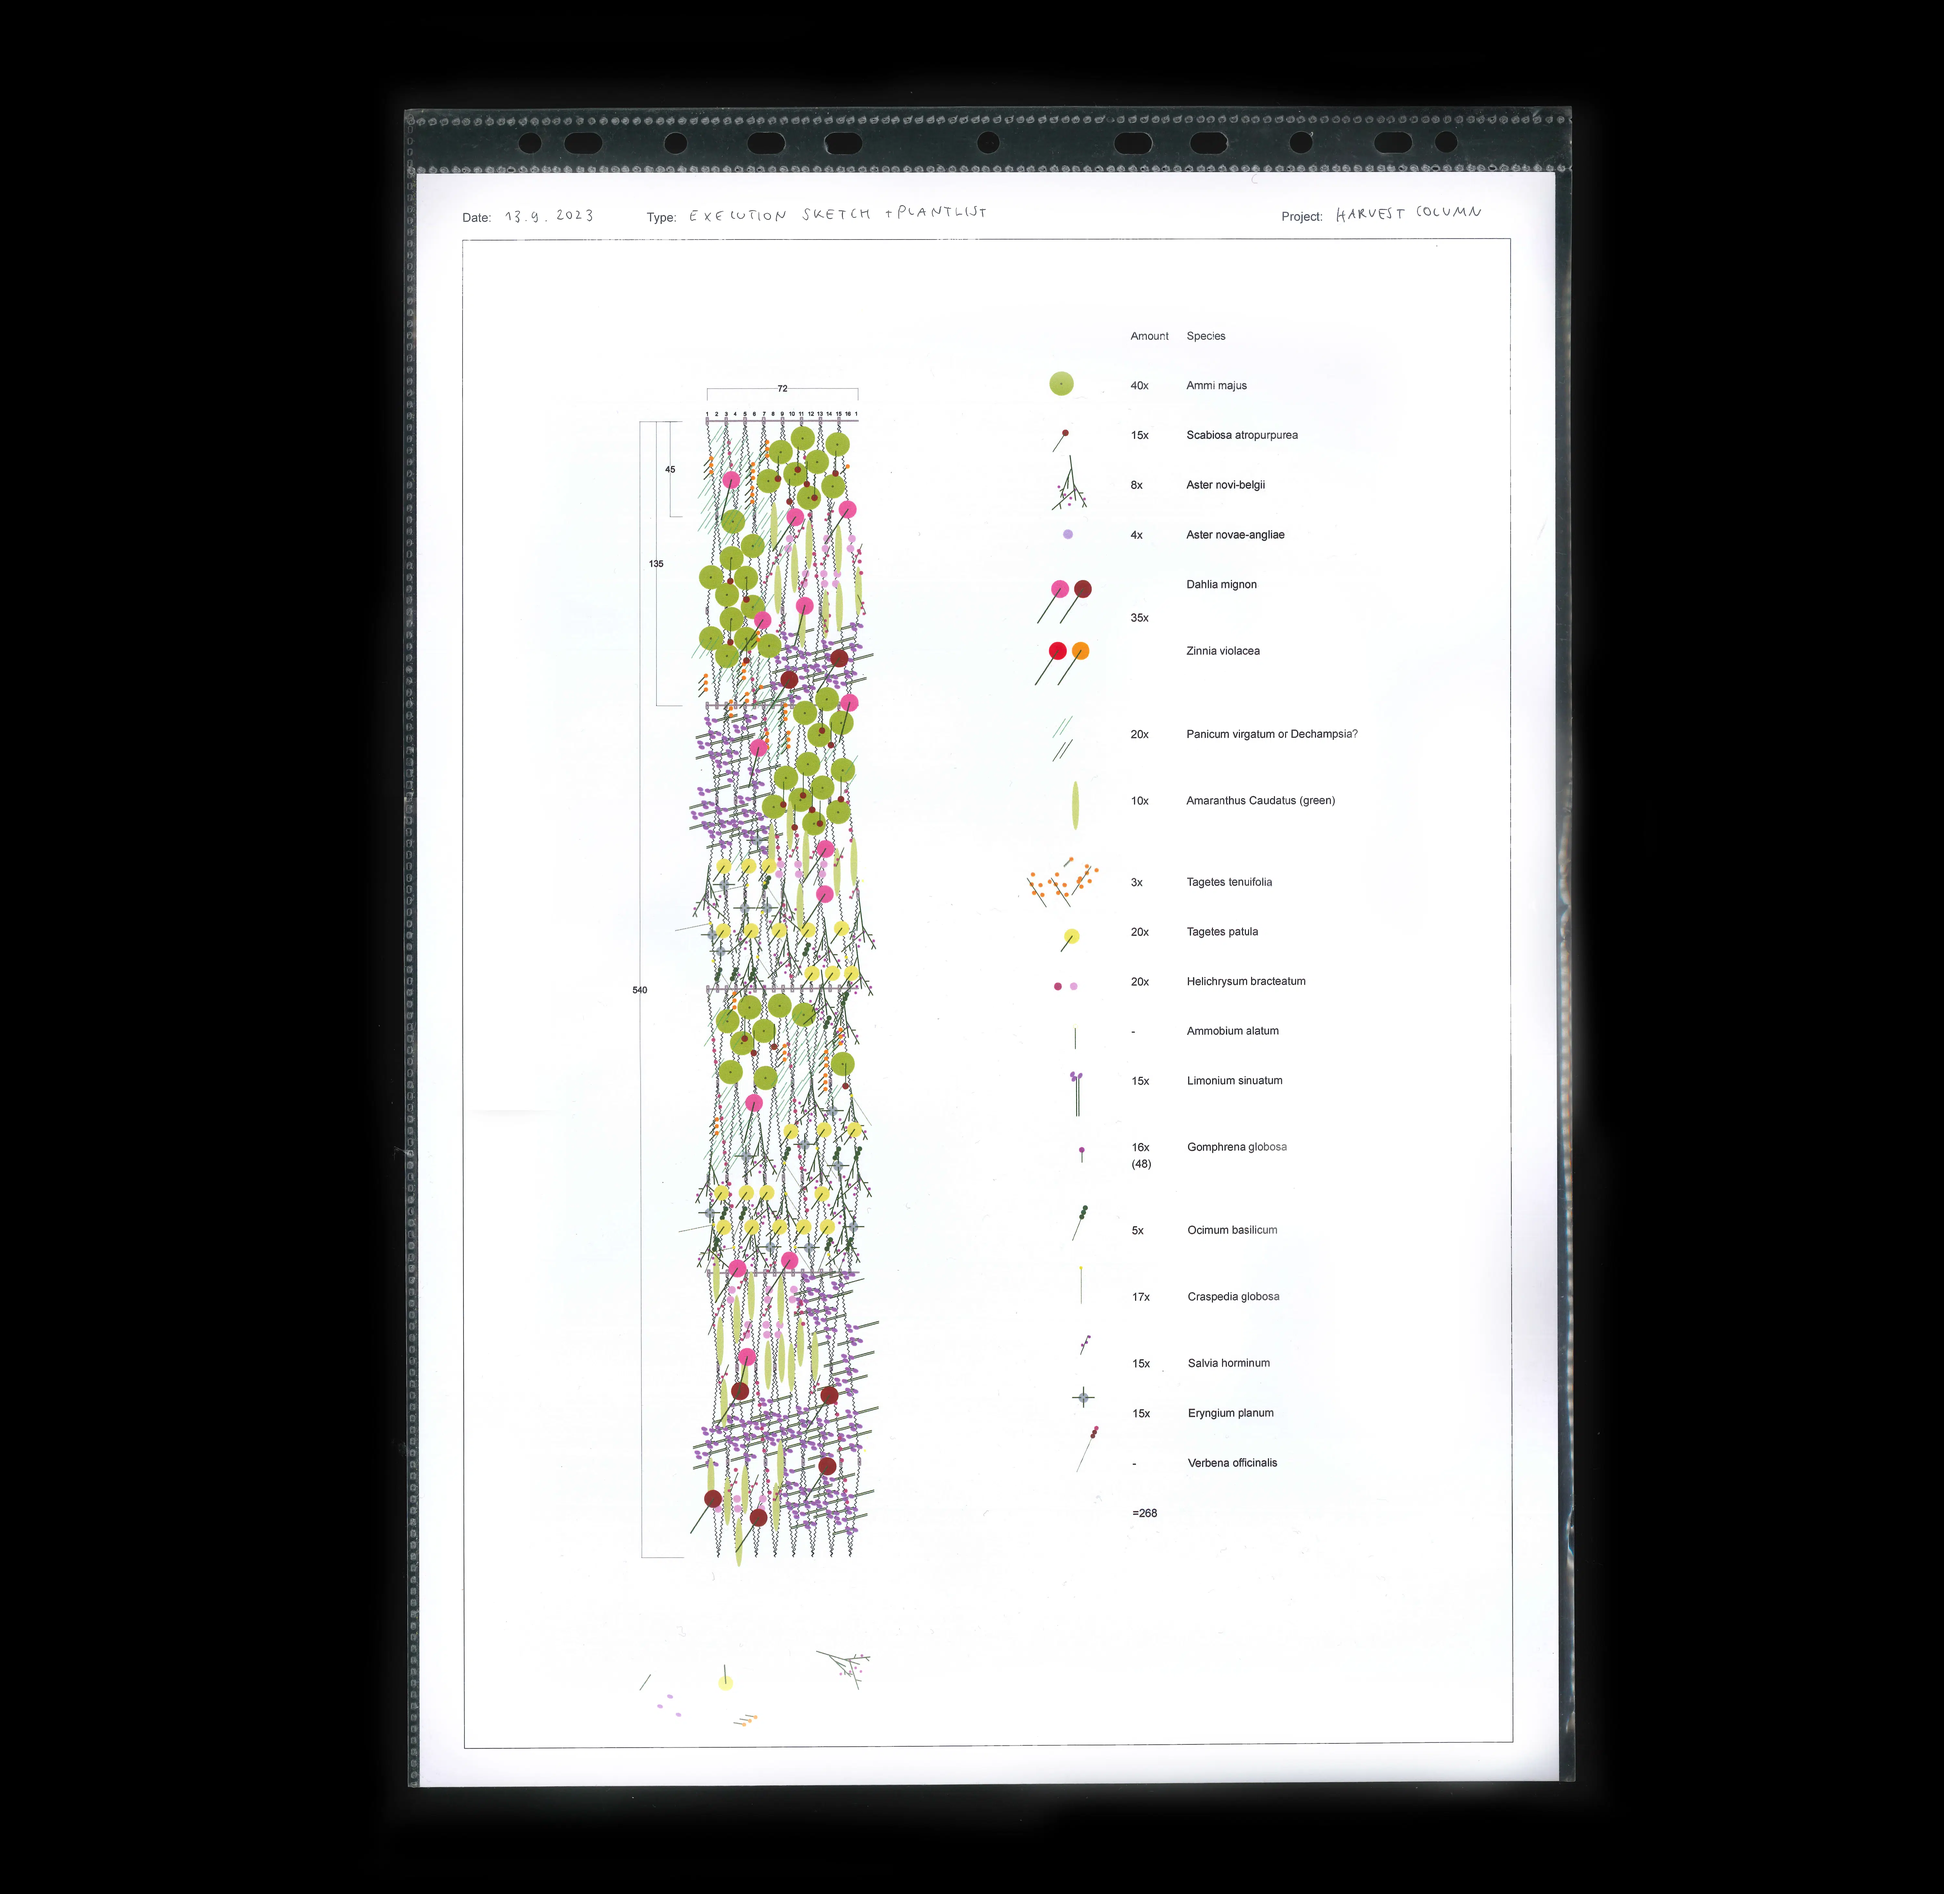
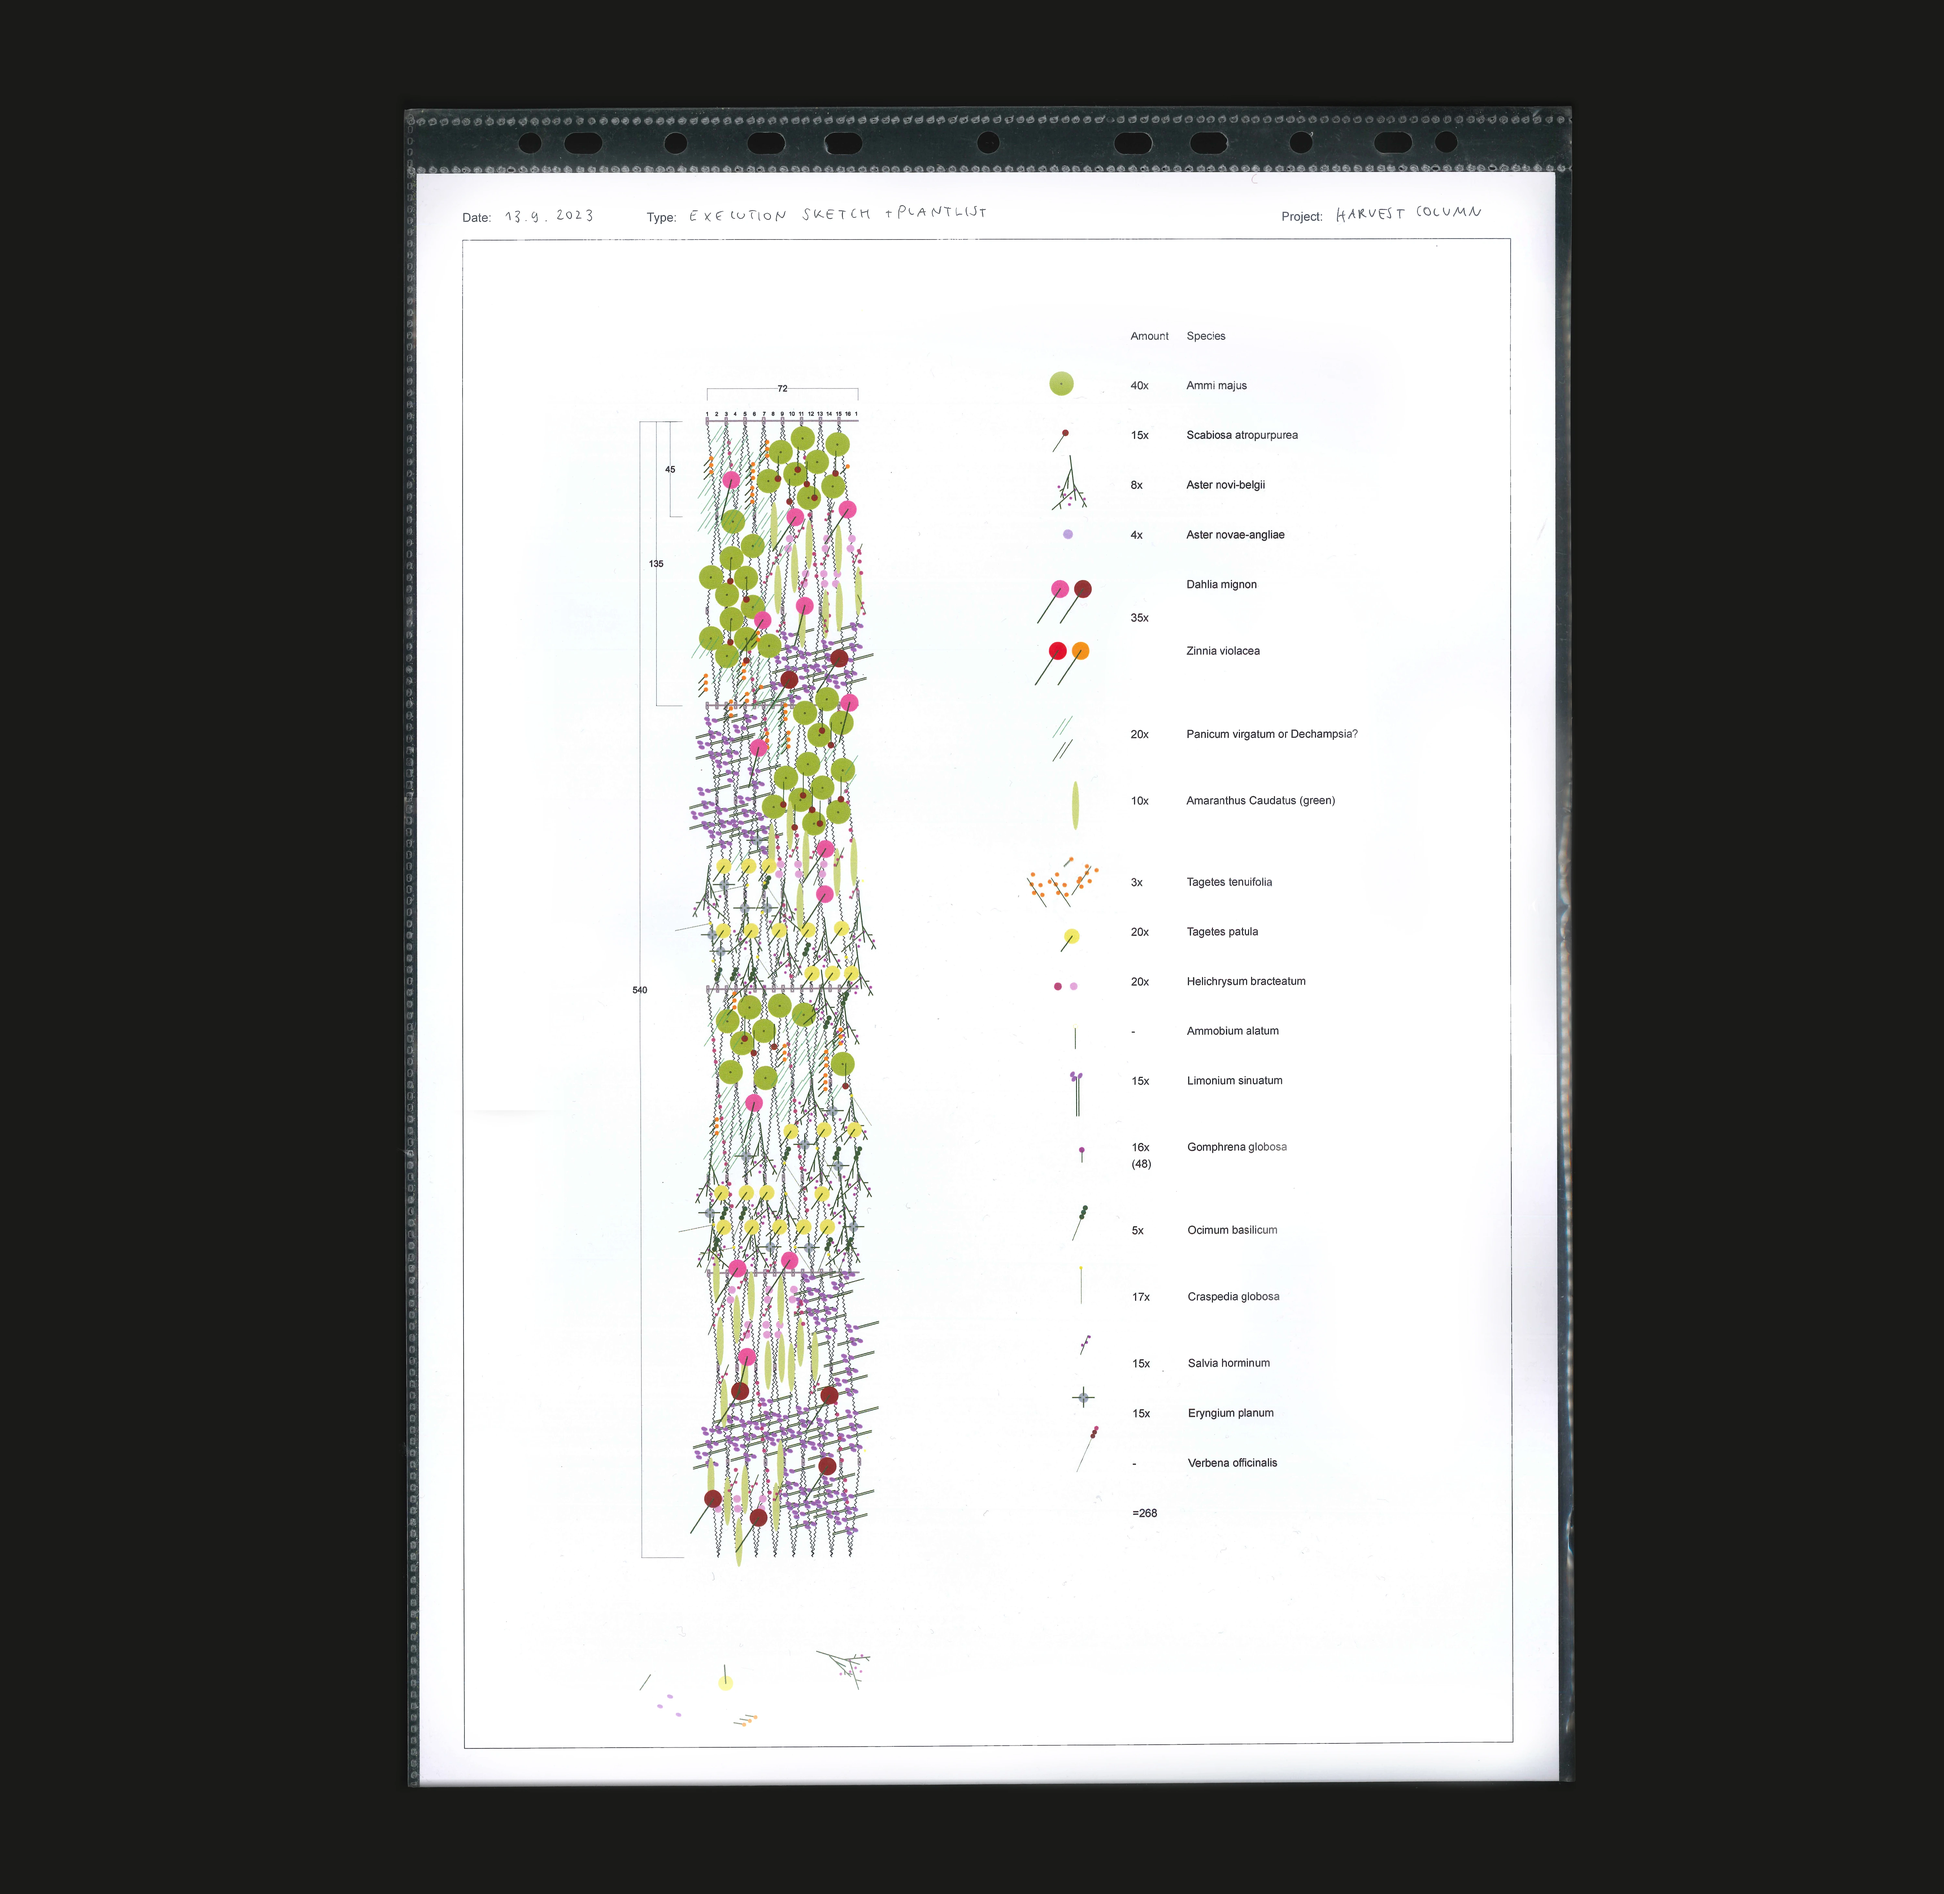
Image fixes and final changes

diff --git a/work/place-to-grow.html b/work/place-to-grow.html
@@ -32,7 +32,6 @@
     <img src="../images/work/Place to Grow/4 Fotoalbum 1.webp" alt="Project image" class="project-content__image">
     <img src="../images/work/Place to Grow/5 Collage.webp" alt="Project image" class="project-content__image">
     <img src="../images/work/Place to Grow/6 Plantation Plan Inventory.webp" alt="Project image" class="project-content__image">
-    <img src="../images/work/Place to Grow/7 Fotoalbum 2.webp" alt="Project image" class="project-content__image">
     <img src="../images/work/Place to Grow/8 Plants.webp" alt="Project image" class="project-content__image">
     <img src="../images/work/Place to Grow/9 Fotoalbum 3.webp" alt="Project image" class="project-content__image">
     <img src="../images/work/Place to Grow/10 Maintenance.webp" alt="Project image" class="project-content__image">

diff --git a/work/harvest-column.html b/work/harvest-column.html
@@ -30,7 +30,6 @@
     <img src="../images/work/Harvest Column/1 Text Cover.webp" alt="Project image" class="project-content__image">
     <img src="../images/work/Harvest Column/2 Text Info.webp" alt="Project image" class="project-content__image">
     <img src="../images/work/Harvest Column/4 Drawing.webp" alt="Project image" class="project-content__image">
-    <img src="../images/work/Harvest Column/5 Fotoalbum 1.webp" alt="Project image" class="project-content__image">
     <img src="../images/work/Harvest Column/6 Fotoalbum 1a.webp" alt="Project image" class="project-content__image">
     <img src="../images/work/Harvest Column/7 Fotos Plantsourcing.webp" alt="Project image" class="project-content__image">
     <img src="../images/work/Harvest Column/8 Sketch.webp" alt="Project image" class="project-content__image">
